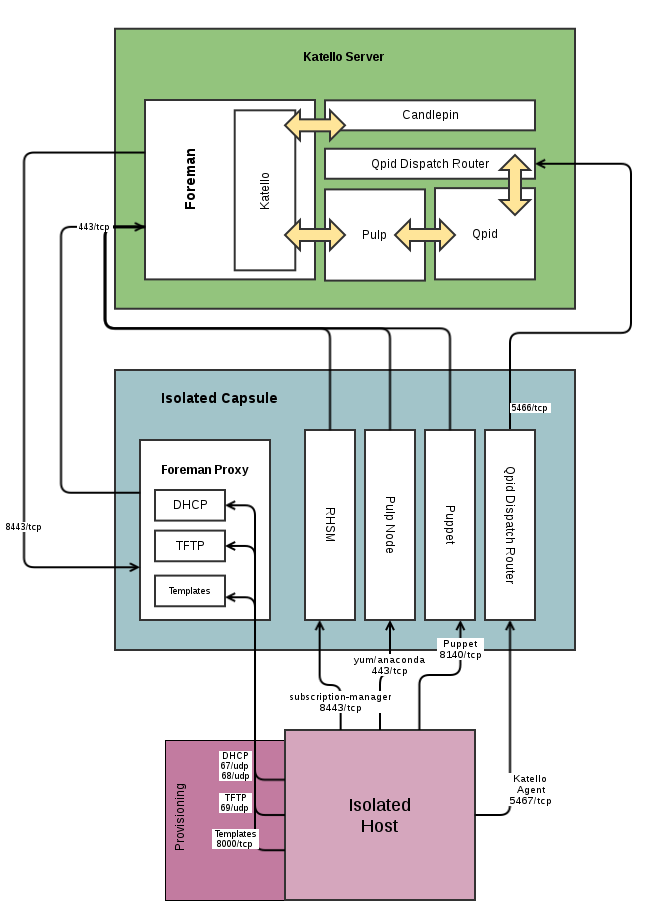
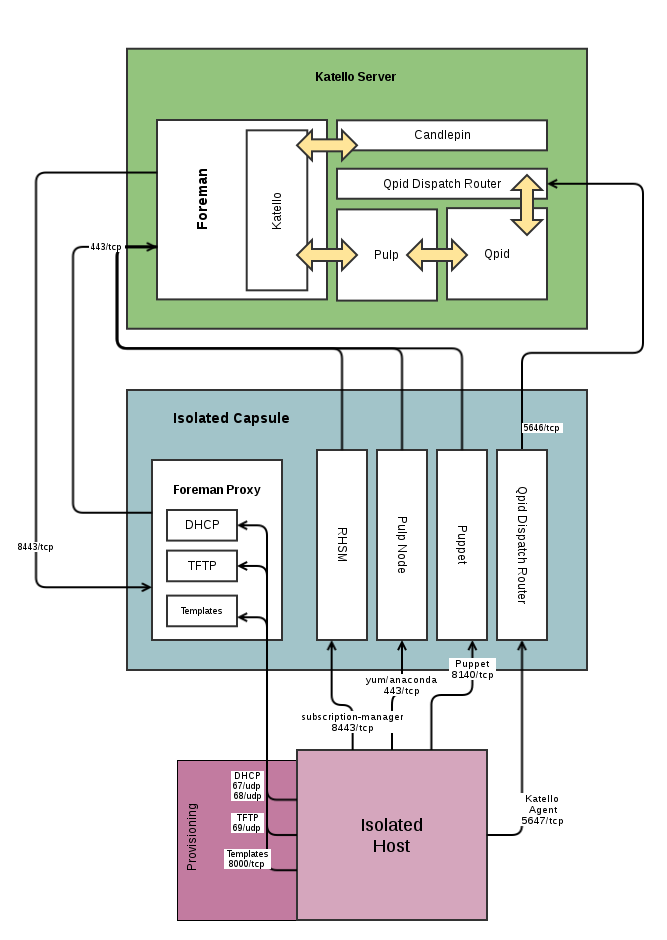
Correct ports for dispatcher and agents

diff --git a/docs/user_guide/capsules/index.md b/docs/user_guide/capsules/index.md
@@ -73,7 +73,7 @@ Install Option:
 
 Required Connectivity:
 
-  * Clients need to be able to communicate with the Capsule on port 5467/tcp
+  * Clients need to be able to communicate with the Capsule on port 5647/tcp
 
 ### 3 - Puppet & Puppet CA
 
